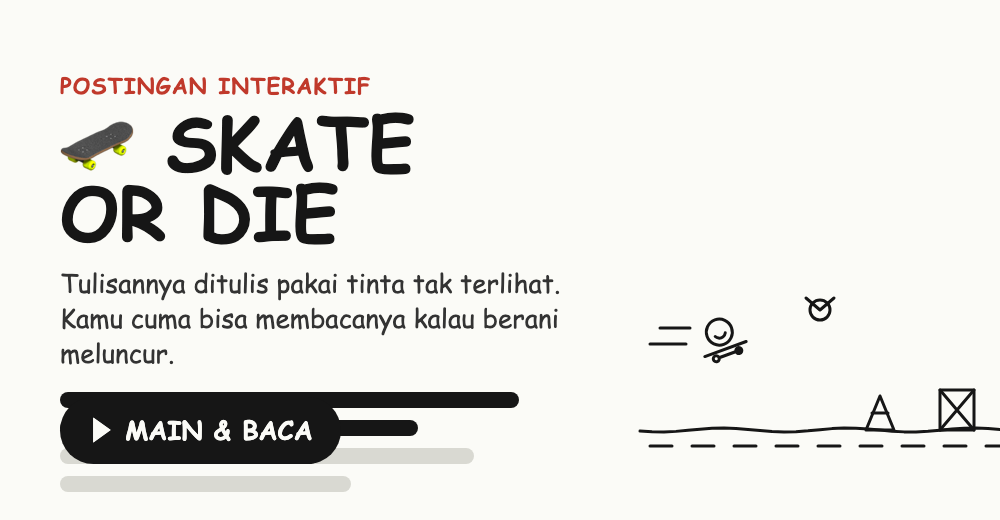
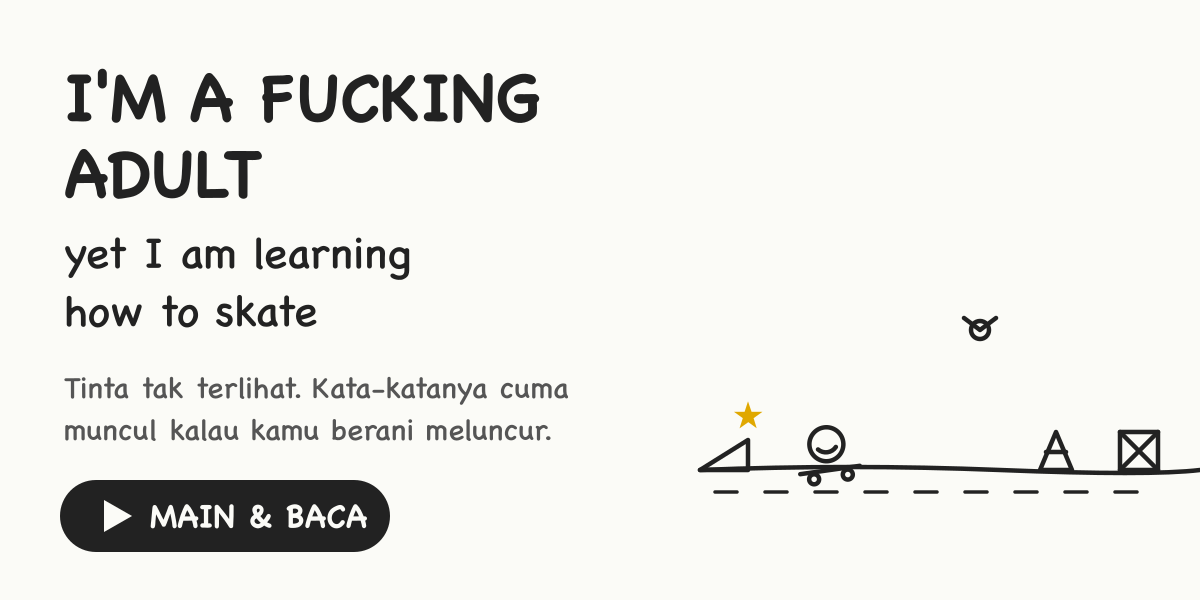
Rewrite both game posts as actual stories, not rules explainers
- Skate post is now the longboard/surfskate story (Mei 2026 → surfing
  Agustus 2026 → Myoko & Hokkaido 2027), retitled "I'm a Fucking Adult
  Yet I Am Learning How to Skate"; in-game title and poster follow.
- Kitten post is now the cow-milk story and the stray family of five.
- Reveal rate is derived from the word count in both games, so a clean
  run stays ~35-45s no matter how long the prose gets. Crash/starve
  penalties rescaled to match.
- Regenerated the skate poster: drops the "POSTINGAN INTERAKTIF" line.

diff --git a/_posts/2026-07-21-skate-or-die.md b/_posts/2026-07-21-skate-or-die.md
@@ -1,9 +1,9 @@
 ---
 layout: post
-title: Skate or Die (baca sambil meluncur!)
+title: I'm a Fucking Adult Yet I Am Learning How to Skate
 comments: true
 thumbnail: /assets/img/2026-07-21-skate-or-die.png
-teaser: "Postingan ini ditulis pakai tinta tak terlihat. Kata-katanya cuma muncul kalau kamu berani meluncur dan menghindari rintangan. Jatuh? Sepuluh kata langsung lenyap. Berani coba?"
+teaser: "Umur 26 saya baru belajar berdiri di atas papan, sementara adik saya sudah mau menikah. Ceritanya ditulis pakai tinta tak terlihat — cuma muncul kalau kamu ikut meluncur dan tidak nabrak."
 ---
 
 <style>
@@ -32,15 +32,45 @@ teaser: "Postingan ini ditulis pakai tinta tak terlihat. Kata-katanya cuma muncu
 
 <div id="ink" markdown="1">
 
-_Katanya orang dewasa harus berhenti main-main. Tapi lihat—kamu di sini, mendorong sebuah papan skateboard hanya untuk memunculkan sebuah tulisan._
+_Umur 26, dan saya baru belajar berdiri di atas papan. Ceritanya ditulis pakai tinta tak terlihat—ia muncul kalau kamu ikut meluncur._
 
-Setiap kata di halaman ini terkunci sebagai tinta tak terlihat. Ia baru muncul kalau kamu meluncur cukup jauh dan menghindari batu, kardus, serta kerucut yang menghadang. Sepuluh langkah, satu kata. Sabar sedikit, ya.
+___
 
-Tidak ada yang instan di sini, sama seperti kebanyakan hal yang layak dibaca. Tapi hati-hati: setiap kali kamu jatuh, sepuluh kata terakhir ikut lenyap dari halaman. Jadi jangan asal lompat—timing itu segalanya, dan kamu harus benar-benar bergerak maju.
+### Mei 2026
 
-Jadi teruslah meluncur. Lompati setiap rintangannya. Biarkan cerita ini menyusun dirinya sendiri, sedikit demi sedikit, tepat di bawah roda papanmu—sampai kata yang paling terakhir, dan papan itu akhirnya boleh berhenti.
+Saya beli longboard. Dua minggu kemudian saya beli surfskate. Tidak ada pencerahan, tidak ada film inspiratif sebelumnya. Saya memutuskan ingin bisa, lalu mulai.
 
-Terima kasih sudah menemani sampai ke ujung jalan. Sekarang halaman ini sudah utuh, sama seperti tulisan biasa. Asif, _signing off._ 🛹
+Aspal mengajar tanpa kurikulum. Ia tidak peduli jabatanmu, gajimu, atau jumlah tahun yang kamu tulis di CV. Tarifnya lecet di dengkul, dibayar di tempat, tidak menerima transfer.
+
+> _Gravitasi adalah satu-satunya atasan yang tidak pernah bohong soal deadline._
+
+Saya sudah jatuh cukup sering untuk berhenti menganggap jatuh sebagai kabar buruk. Itu bukan filosofi. Itu statistik.
+
+### Kalender
+
+Agustus 2026: surfing. Secara teknis hanya memindahkan tempat jatuh dari beton ke air.
+
+2027: salju Myoko, lalu Hokkaido. Jatuh dalam bahasa Jepang.
+
+Empat medium, satu keterampilan yang sama—berdiri di atas sesuatu yang tidak stabil dan tetap memilih arah. Saya tidak sedang mengumpulkan hobi. Saya sedang memakai badan ini sebelum ia mulai mengajukan syarat dan ketentuan.
+
+### Dua jenis waktu
+
+Adik saya akan menikah. Saya senang, tanpa catatan kaki. Ia memilih jalannya lebih awal dan menjalaninya dengan serius, dan itu pantas dihormati.
+
+Waktu saya berjalan di rute lain: Kyrgyzstan, Kazakhstan, Uzbekistan, China, Nagano. Punggung kuda, jalan tanpa aspal, bahasa yang tidak saya kuasai. Saya tidak melarikan diri dari apa pun. Saya hanya tidak pernah setuju bahwa urutan hidup ditentukan oleh orang-orang yang tidak akan menjalaninya.
+
+Dewasa bukan checklist. Checklist itu formulir. Yang menyamakan keduanya biasanya belum pernah ditanya apa yang dia mau.
+
+### Optimistic nihilism
+
+Alam semesta tidak menyimpan skor. Tidak ada juri, tidak ada papan peringkat, tidak ada notaris yang mencatat bahwa kamu tepat waktu. Semua ini akan jadi debu di atas batu yang berputar mengelilingi bola gas yang juga akan mati.
+
+Itu bukan alasan untuk menyerah. Itu izin. Kalau memang tidak ada yang mengawasi, tidak ada juga yang berwenang memutuskan bahwa hidup saya salah bentuk.
+
+Jadi saya carve. Saya jatuh. Saya bangun, cek dengkul, lanjut—sampai halaman ini penuh.
+
+Terima kasih sudah ikut meluncur. Kalau nanti kita ketemu di trotoar dan saya jatuh, kamu boleh lihat. Asif, _signing off._ 🛹
 
 </div>
 
@@ -77,9 +107,10 @@ Terima kasih sudah menemani sampai ke ujung jalan. Sekarang halaman ini sudah ut
   })(ink);
 
   var TOTAL = words.length;
-  var PER_WORD = 10;
-  var PENALTY = PER_WORD * 10; // crashing costs you 10 words
-  var RAMP_BONUS = PER_WORD * 5; // nailing a ramp launch grants 5 words
+  // a flawless run should take ~45s no matter how long the post gets
+  var PER_WORD = Math.max(1.5, 1450 / TOTAL);
+  var PENALTY = PER_WORD * 25; // crashing costs you 25 words
+  var RAMP_BONUS = PER_WORD * 12; // nailing a ramp launch grants 12 words
   var FINISH = TOTAL * PER_WORD;
   document.getElementById('sk-total').textContent = TOTAL;
 
@@ -348,8 +379,9 @@ Terima kasih sudah menemani sampai ke ujung jalan. Sekarang halaman ini sudah ut
       while (px>9 && ctx.measureText(text).width > W*0.9){ px--; ctx.font = pre+px+'px sans-serif'; }
     }
     if (state==='ready'){
-      fit('🛹 SKATE OR DIE', H*0.18, true); ctx.fillText('🛹 SKATE OR DIE', W/2, H*0.42);
-      fit('▶ Tap / Spasi untuk meluncur', H*0.1, false); ctx.fillText('▶ Tap / Spasi untuk meluncur', W/2, H*0.62);
+      fit("🛹 I'M A FUCKING ADULT", H*0.15, true); ctx.fillText("🛹 I'M A FUCKING ADULT", W/2, H*0.34);
+      fit('yet I am learning how to skate', H*0.11, false); ctx.fillText('yet I am learning how to skate', W/2, H*0.52);
+      fit('▶ Tap / Spasi untuk meluncur', H*0.095, false); ctx.fillText('▶ Tap / Spasi untuk meluncur', W/2, H*0.72);
     } else if (state==='won'){
       fit('🎉 SELAMAT!', H*0.2, true); ctx.fillText('🎉 SELAMAT!', W/2, H*0.38);
       fit('Semua kata terbuka — selamat membaca!', H*0.088, false); ctx.fillText('Semua kata terbuka — selamat membaca!', W/2, H*0.55);

diff --git a/_posts/2026-08-05-little-kitten.md b/_posts/2026-08-05-little-kitten.md
@@ -1,9 +1,9 @@
 ---
 layout: post
-title: Little Kitten (kasih makan dulu, baru boleh baca!)
+title: Little Kitten
 comments: true
 thumbnail: /assets/img/2026-08-05-little-kitten.png
-teaser: "Kata-kata di postingan ini dijaga seekor anak kucing yang kelaparan. Suapi ia, dan ia akan tumbuh sambil membuka tulisannya. Tapi hati-hati: sesekali yang muncul bukan makanan, melainkan cokelat."
+teaser: "Saya suka kucing dan tidak pernah berhasil memelihara satu pun — pernah hampir membunuh satu pakai segelas susu sapi. Ceritanya cuma muncul kalau kamu mau menyuapi kucing di atas dulu."
 ---
 
 <style>
@@ -32,17 +32,47 @@ teaser: "Kata-kata di postingan ini dijaga seekor anak kucing yang kelaparan. Su
 
 <div id="ink" markdown="1">
 
-_Semua yang tumbuh pernah kecil, dan semua yang kecil pernah kelaparan._
+_Saya suka kucing. Saya belum pernah berhasil memelihara satu pun. Dua kalimat itu tinggal bertahun-tahun di kepala saya tanpa pernah saling menyapa._
 
-Halaman ini dijaga seekor anak kucing. Kata-katanya tersembunyi sampai ia diberi makan: setiap suap membuka beberapa kata sekaligus, dan membuat tubuhnya sedikit lebih besar. Klik makanannya, nanti ia berjalan sendiri ke sana.
+___
 
-Tapi makanan tidak mau menunggu. Ia cuma muncul sebentar, lalu hilang—dan kalau sampai hilang tanpa disentuh, anak kucing ini mati kelaparan. Jadi jangan menunda-nunda.
+### Susu sapi
 
-Sesekali yang muncul bukan makanan, melainkan sebatang cokelat. Manis untuk kita, racun untuk dia. Kalau kamu mengkliknya, ia akan tetap berjalan ke sana, karena ia percaya padamu. Cokelat tidak perlu diambil; biarkan saja ia lewat sendiri.
+SD. Satu anak kucing, satu anak manusia, dan niat baik tanpa ilmu.
 
-Begitulah cara tulisan ini tumbuh: sesuap demi sesuap, dengan sabar, sambil belajar membedakan mana yang memberi hidup dan mana yang cuma kelihatan manis.
+Saya kasih dia susu sapi—susu kotak yang saya sendiri minum. Logikanya masuk akal untuk anak sembilan tahun: kucing suka susu.
 
-Terima kasih sudah menyuapinya sampai kenyang. Sekarang halaman ini sudah utuh, dan kucing kecil itu boleh tidur. Asif, _signing off._ 🐾
+Kucing dewasa tidak bisa mencerna laktosa. Saya baru tahu itu belasan tahun kemudian.
+
+Diare. Lalu kalimat yang menutup perkara:
+
+> _"Kayaknya kamu belum bisa pelihara kucing."_
+
+Keluarga saya tidak salah. Kucing itu diberikan ke orang lain, dan saya dapat pelajaran pertama tentang mencintai sesuatu: niat baik yang tidak diverifikasi adalah cokelat dalam bentuk lain. Manis di tangan yang memberi, racun di perut yang menerima.
+
+Cokelat di game di atas bukan metafora yang saya karang. Saya pernah jadi pemain yang mengkliknya, dan waktu itu tidak ada tap-untuk-lanjut.
+
+### Satu ibu, empat anak
+
+Belasan tahun kemudian. Kuliah, bab terakhir, periode ketika seseorang bisa duduk delapan jam di depan laptop, menghasilkan nol paragraf, dan tetap merasa habis.
+
+Di depan rumah tinggal kucing liar: satu ibu, empat anak. Mereka tidak tahu apa itu tugas akhir, dan itu bagian terbaiknya. Mereka datang setiap hari, minta dielus, tidur di atas sandal, memperlakukan saya sebagai furnitur hangat yang bisa bergerak.
+
+Saya lebih rajin menemui mereka daripada membuka dokumen skripsi. Prioritas itu tidak pernah saya sesali.
+
+Lalu mereka naik ke plafon. Tengah malam, empat kucing kecil menggelar pertunjukan di atas kepala seisi rumah—gratis, tanpa diminta. Tetangga punya pendapat lain soal seni.
+
+Saya tidak pernah jadi pemilik mereka. Selama beberapa bulan saya cuma orang yang mereka datangi. Ternyata itu bentuk hubungan yang lebih jujur: tidak ada yang dimiliki, tidak ada yang dijanjikan, dan mereka tetap datang.
+
+### Optimistic nihilism
+
+Kucing tidak punya rencana lima tahun. Tidak menabung. Tidak peduli IPK, tidak peduli promosi, dan tidak akan datang ke pemakaman saya. Mereka makan, tidur, jatuh dari tempat tinggi dengan gaya, lalu mengulanginya besok tanpa rasa malu.
+
+Tidak ada yang mencatat apa pun. Susu sapi itu tidak bisa saya tarik kembali. Kucing-kucing di plafon itu tidak mengingat nama saya, dan tidak perlu.
+
+Justru karena itu urusannya jadi sederhana: kasih makan yang lapar hari ini. Bukan untuk pahala, bukan untuk cerita. Sepuluh menit dielus, bagi seekor kucing kecil, sudah seluruh dunia—dan dunia itu tidak butuh dicatat siapa pun untuk jadi nyata.
+
+Terima kasih sudah menyuapinya sampai kenyang. Kalau hari ini kamu ketemu kucing liar: jangan kasih susu sapi. Kasih air. Kasih waktu. Asif, _signing off._ 🐾
 
 </div>
 
@@ -79,11 +109,12 @@ Terima kasih sudah menyuapinya sampai kenyang. Sekarang halaman ini sudah utuh, 
   })(ink);
 
   var TOTAL = words.length;
-  var PER_WORD = 10;          // score needed per revealed word
-  var FOOD_SCORE = 55;        // one bite ≈ 5 words
+  var FOOD_SCORE = 55;        // score per bite
+  var TARGET_BITES = 28;      // a clean run ≈ 28 bites, however long the post gets
+  var PER_WORD = Math.max(1.5, FOOD_SCORE * TARGET_BITES / TOTAL);
   var GROW_STEPS = 10;        // kitten reaches full size after 10 bites
-  var STARVE_COST = 8 * PER_WORD;  // dying of hunger costs 8 words
-  var POISON_COST = 15 * PER_WORD; // chocolate costs more — it was your choice
+  var STARVE_COST = 12 * PER_WORD;  // dying of hunger costs 12 words
+  var POISON_COST = 30 * PER_WORD;  // chocolate costs more — it was your choice
   var FINISH = TOTAL * PER_WORD;
   document.getElementById('kt-total').textContent = TOTAL;
 
